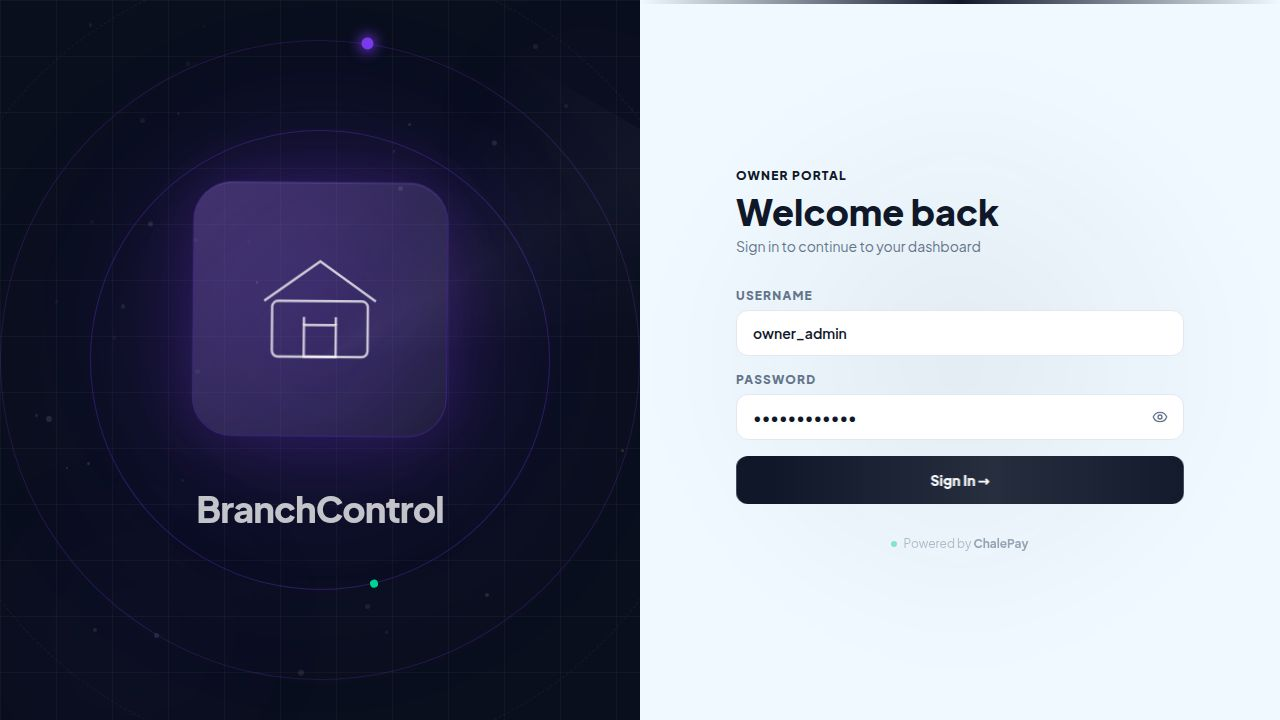
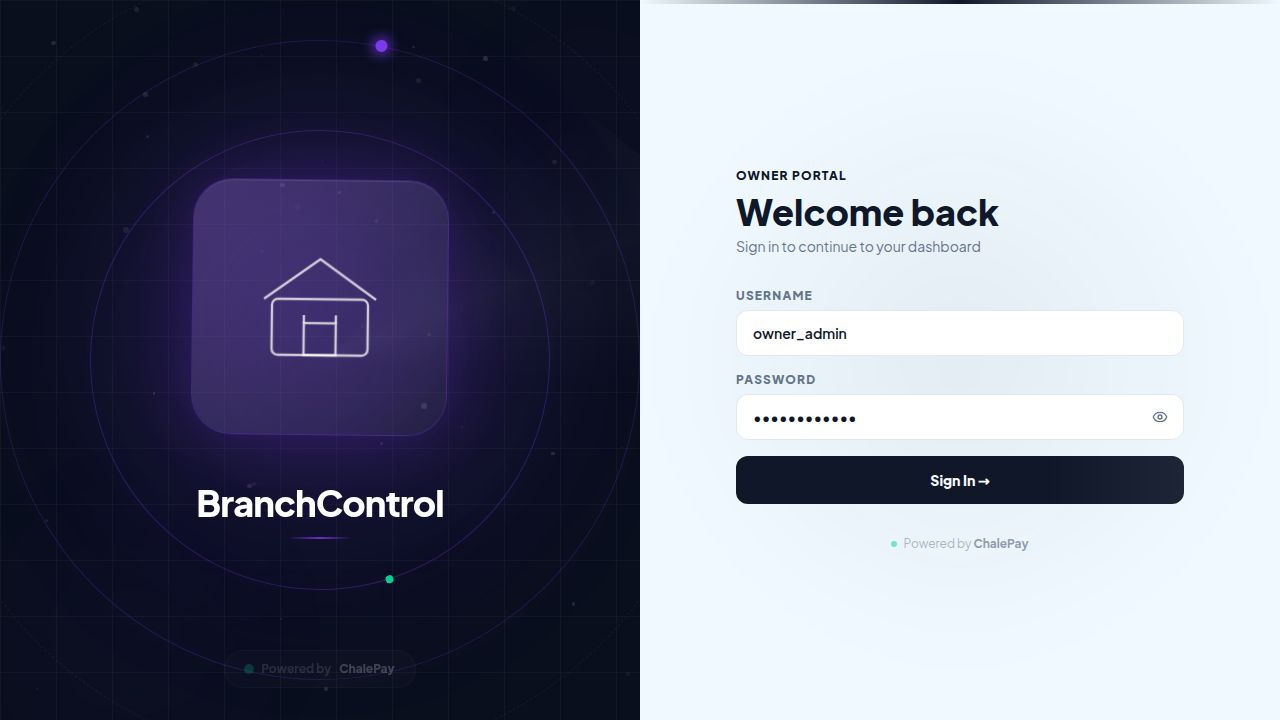
Add email notification settings and business email field
Adds email notification settings to the application, including enable toggle, threshold, and additional recipients. Also introduces a business email field to the business profile for default recipient configuration. Updates API schemas, database schema, and UI components accordingly.

Replit-Commit-Author: Agent
Replit-Commit-Session-Id: 2c31cd55-3f67-4ec0-9f7d-223d7b02fc42
Replit-Commit-Checkpoint-Type: full_checkpoint
Replit-Commit-Event-Id: d3e06f92-c915-420d-802f-5c7f47faaab9
Replit-Commit-Screenshot-Url: https://storage.googleapis.com/screenshot-production-us-central1/f6eb8c87-9d6b-4b15-aad2-c1cf45fa247c/2c31cd55-3f67-4ec0-9f7d-223d7b02fc42/7TyoZ2P
Replit-Helium-Checkpoint-Created: true

diff --git a/artifacts/branch-control/src/pages/Settings.tsx b/artifacts/branch-control/src/pages/Settings.tsx
@@ -13,7 +13,7 @@ import { useToast } from "@/hooks/use-toast";
 import { Skeleton } from "@/components/ui/skeleton";
 import {
   Save, Plus, Pencil, Trash2, X, ChevronRight, ArrowLeft,
-  Building2, Truck, Package, MessageSquare, Palette, Upload, MapPin, Layers,
+  Building2, Truck, Package, MessageSquare, Palette, Upload, MapPin, Layers, Mail,
 } from "lucide-react";
 import { applyAllColors, applyAccentColor, applyLoginGlowColor, applyContentBarColor, applySidebarColor, applyLoginPanelBg, applyLoginRightBg, applyContentBg } from "@/lib/theme";
 
@@ -220,6 +220,7 @@ export default function Settings() {
     accentColor: "#0f172a", loginGlowColor: "#7c3aed", contentBarColor: "#0f172a",
     sidebarColor: "#0f172a", loginPanelBg: "#0a0f1e", loginRightBg: "#f8fafc", contentBg: "#f1f5f9",
     smsCredit: true, smsLowStock: true, smsDaily: false, smsDailyTime: "20:00", smsRecipients: [] as string[], smsSenderId: "BRANCHCTRL",
+    emailEnabled: false, emailThreshold: 0, emailRecipients: [] as string[],
   });
   const [supplierForm, setSupplierForm] = useState({ id: null as number | null, name: "", phone: "" });
   const [editingSupp, setEditingSupp] = useState<number | null>(null);
@@ -250,6 +251,9 @@ export default function Settings() {
         smsDailyTime: settings.smsDailyTime || "20:00",
         smsRecipients: settings.smsRecipients ?? [],
         smsSenderId: settings.smsSenderId,
+        emailEnabled: settings.emailEnabled ?? false,
+        emailThreshold: settings.emailThreshold ?? 0,
+        emailRecipients: settings.emailRecipients ?? [],
       });
       applyAllColors({
         accentColor: settings.accentColor,
@@ -518,10 +522,14 @@ export default function Settings() {
                       <label className={labelClass}>Business Phone (primary)</label>
                       <input data-testid="input-business-phone" value={profile.phone} onChange={e => setProfile(f => ({ ...f, phone: e.target.value }))} className={inputClass} placeholder="[phone redacted]" />
                     </div>
+                    <div>
+                      <label className={labelClass}>Business Email (primary)</label>
+                      <input data-testid="input-business-email" type="email" value={profile.email} onChange={e => setProfile(f => ({ ...f, email: e.target.value }))} className={inputClass} placeholder="[email redacted]" />
+                    </div>
                     <div className="md:col-span-2">
                       <div className="flex items-center justify-between mb-1">
-                        <label className={labelClass + " mb-0"}>Additional Numbers</label>
-                        <span className="text-[10px] font-black text-muted-foreground tabular-nums">{profile.smsRecipients.length} added</span>
+                        <label className={labelClass + " mb-0"}>Additional Numbers (maximum 4)</label>
+                        <span className="text-[10px] font-black text-muted-foreground tabular-nums">{profile.smsRecipients.length}/4</span>
                       </div>
                       <p className="text-xs text-muted-foreground mb-3">
                         Extra numbers that will also receive SMS alerts. Include country code (e.g. <span className="font-semibold">[phone redacted]</span>). The primary number above is included automatically.
@@ -554,11 +562,12 @@ export default function Settings() {
                           placeholder="[phone redacted]"
                           className={inputClass + " flex-1"}
                           id="sms-recipient-input"
+                          disabled={profile.smsRecipients.length >= 4}
                           onKeyDown={e => {
                             if (e.key === "Enter") {
                               e.preventDefault();
                               const val = (e.target as HTMLInputElement).value.trim();
-                              if (val && !profile.smsRecipients.includes(val)) {
+                              if (val && !profile.smsRecipients.includes(val) && profile.smsRecipients.length < 4) {
                                 setProfile(f => ({ ...f, smsRecipients: [...f.smsRecipients, val] }));
                                 (e.target as HTMLInputElement).value = "";
                               }
@@ -567,16 +576,17 @@ export default function Settings() {
                         />
                         <button
                           type="button"
+                          disabled={profile.smsRecipients.length >= 4}
                           onClick={() => {
                             const el = document.getElementById("sms-recipient-input") as HTMLInputElement | null;
                             if (!el) return;
                             const val = el.value.trim();
-                            if (val && !profile.smsRecipients.includes(val)) {
+                            if (val && !profile.smsRecipients.includes(val) && profile.smsRecipients.length < 4) {
                               setProfile(f => ({ ...f, smsRecipients: [...f.smsRecipients, val] }));
                               el.value = "";
                             }
                           }}
-                          className="rounded-xl bg-primary text-primary-foreground px-4 text-sm font-black hover:opacity-90 transition-opacity"
+                          className="rounded-xl bg-primary text-primary-foreground px-4 text-sm font-black hover:opacity-90 transition-opacity disabled:opacity-50 disabled:cursor-not-allowed"
                         >
                           Add
                         </button>
@@ -594,7 +604,118 @@ export default function Settings() {
             )}
 
             {page === "sms" && (
-              <div className="px-6 pb-6 pt-6 space-y-3">
+              <div className="px-6 pb-6 pt-6 space-y-6">
+                {/* Email Notifications */}
+                <div className="space-y-3">
+                  <div className="flex items-center gap-2">
+                    <Mail className="h-4 w-4 text-primary" />
+                    <h3 className="text-sm font-black uppercase tracking-widest text-muted-foreground">Email Notifications</h3>
+                  </div>
+
+                  <div className="flex items-center justify-between rounded-xl bg-muted/50 px-4 py-3">
+                    <div>
+                      <p className="font-bold text-foreground text-sm">Enable Notification</p>
+                      <p className="text-xs text-muted-foreground">Send email alerts for large sales and key events</p>
+                    </div>
+                    <button
+                      onClick={() => setProfile(f => ({ ...f, emailEnabled: !f.emailEnabled }))}
+                      className={`relative h-6 w-11 rounded-full transition-all ${profile.emailEnabled ? "bg-primary" : "bg-muted-foreground/30"}`}
+                    >
+                      <span className={`absolute top-0.5 h-5 w-5 rounded-full bg-white shadow transition-all ${profile.emailEnabled ? "left-5.5" : "left-0.5"}`} />
+                    </button>
+                  </div>
+
+                  {profile.emailEnabled && (
+                    <>
+                      <div>
+                        <label className={labelClass}>Threshold (in GHS)</label>
+                        <input
+                          type="number"
+                          min={0}
+                          value={profile.emailThreshold || ""}
+                          onChange={e => setProfile(f => ({ ...f, emailThreshold: Number(e.target.value) || 0 }))}
+                          className={inputClass}
+                          placeholder="e.g. 5000"
+                        />
+                        <p className="text-xs text-muted-foreground mt-1">Notify when a single sale or daily total exceeds this amount.</p>
+                      </div>
+
+                      <div>
+                        <div className="flex items-center justify-between mb-1">
+                          <label className={labelClass + " mb-0"}>Additional Recipients (maximum 4)</label>
+                          <span className="text-[10px] font-black text-muted-foreground tabular-nums">{profile.emailRecipients.length}/4</span>
+                        </div>
+                        <p className="text-xs text-muted-foreground mb-3">
+                          Default Recipient: <span className="font-bold text-foreground">{profile.email || "—  set in Business Profile"}</span>
+                        </p>
+
+                        {profile.emailRecipients.length > 0 && (
+                          <div className="flex flex-wrap gap-2 mb-3">
+                            {profile.emailRecipients.map((addr, idx) => (
+                              <span key={idx} className="inline-flex items-center gap-1.5 rounded-full bg-primary/10 text-primary pl-3 pr-1 py-1 text-xs font-black">
+                                {addr}
+                                <button
+                                  type="button"
+                                  onClick={() => setProfile(f => ({ ...f, emailRecipients: f.emailRecipients.filter((_, i) => i !== idx) }))}
+                                  className="h-5 w-5 rounded-full hover:bg-primary/20 flex items-center justify-center transition-colors"
+                                  aria-label={`Remove ${addr}`}
+                                >
+                                  <X className="h-3 w-3" />
+                                </button>
+                              </span>
+                            ))}
+                          </div>
+                        )}
+
+                        <div className="flex gap-2">
+                          <input
+                            type="email"
+                            placeholder="[email redacted]"
+                            className={inputClass + " flex-1"}
+                            id="email-recipient-input"
+                            disabled={profile.emailRecipients.length >= 4}
+                            onKeyDown={e => {
+                              if (e.key === "Enter") {
+                                e.preventDefault();
+                                const val = (e.target as HTMLInputElement).value.trim();
+                                if (val && !profile.emailRecipients.includes(val) && profile.emailRecipients.length < 4) {
+                                  setProfile(f => ({ ...f, emailRecipients: [...f.emailRecipients, val] }));
+                                  (e.target as HTMLInputElement).value = "";
+                                }
+                              }
+                            }}
+                          />
+                          <button
+                            type="button"
+                            disabled={profile.emailRecipients.length >= 4}
+                            onClick={() => {
+                              const el = document.getElementById("email-recipient-input") as HTMLInputElement | null;
+                              if (!el) return;
+                              const val = el.value.trim();
+                              if (val && !profile.emailRecipients.includes(val) && profile.emailRecipients.length < 4) {
+                                setProfile(f => ({ ...f, emailRecipients: [...f.emailRecipients, val] }));
+                                el.value = "";
+                              }
+                            }}
+                            className="rounded-xl bg-primary text-primary-foreground px-4 text-sm font-black hover:opacity-90 transition-opacity disabled:opacity-50 disabled:cursor-not-allowed"
+                          >
+                            Add
+                          </button>
+                        </div>
+                      </div>
+                    </>
+                  )}
+                </div>
+
+                <div className="border-t border-border" />
+
+                {/* SMS Notifications */}
+                <div className="space-y-3">
+                  <div className="flex items-center gap-2">
+                    <MessageSquare className="h-4 w-4 text-primary" />
+                    <h3 className="text-sm font-black uppercase tracking-widest text-muted-foreground">SMS Notification</h3>
+                  </div>
+
                 {smsToggles.map(({ key, label, desc }) => (
                   <div key={key}>
                     <div className="flex items-center justify-between rounded-xl bg-muted/50 px-4 py-3">
@@ -667,6 +788,7 @@ export default function Settings() {
                 <p className="text-xs text-muted-foreground">
                   Sends a test message to your primary phone and all additional numbers. Save any changes first.
                 </p>
+                </div>
               </div>
             )}
 

diff --git a/lib/db/src/schema/settings.ts b/lib/db/src/schema/settings.ts
@@ -1,4 +1,4 @@
-import { pgTable, text, serial, boolean } from "drizzle-orm/pg-core";
+import { pgTable, text, serial, boolean, integer } from "drizzle-orm/pg-core";
 import { createInsertSchema } from "drizzle-zod";
 import { z } from "zod/v4";
 
@@ -21,6 +21,9 @@ export const settingsTable = pgTable("settings", {
   smsDailyTime: text("sms_daily_time").notNull().default("20:00"),
   smsRecipients: text("sms_recipients").array().notNull().default([]),
   smsSenderId: text("sms_sender_id").notNull().default("BRANCHCTRL"),
+  emailEnabled: boolean("email_enabled").notNull().default(false),
+  emailThreshold: integer("email_threshold").notNull().default(0),
+  emailRecipients: text("email_recipients").array().notNull().default([]),
 });
 
 export const insertSettingsSchema = createInsertSchema(settingsTable).omit({ id: true });